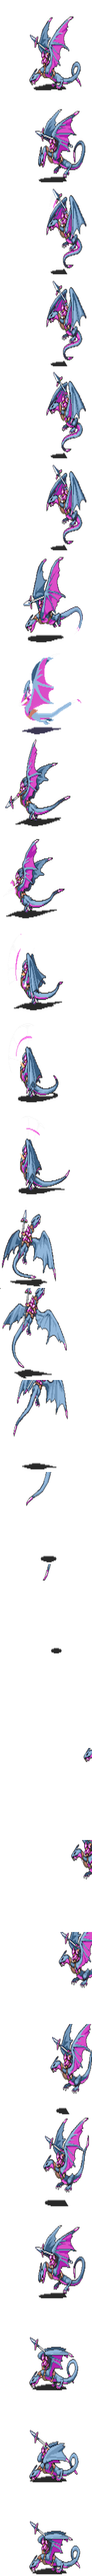
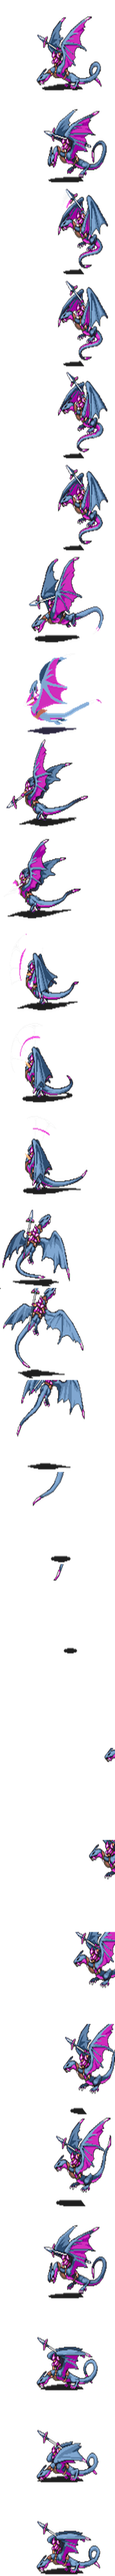
Fixing Wyvern Lord animation

diff --git a/lib/game/main.js b/lib/game/main.js
@@ -65,7 +65,7 @@ ig.module(
     // PC and NPC battle animations
     'game.entities.animations.hero_battleanim', // Main character
     'game.entities.animations.mage_battleanim', 
-    //'game.entities.animations.wyvernLord_battleanim',
+    'game.entities.animations.wyvernLord_battleanim',
     'game.entities.animations.enemy_assassin_battleanim',
     //'game.entities.animations.lord_battleanim',
 
@@ -313,7 +313,7 @@ ig.module(
             );
 
             // Create an array of entities here for random spawning of entities.
-            var party_members = [EntityFemale_mage];
+            var party_members = [EntityWyvern_lord];
 
             // Spawn party members (non-main character)
             for(var p = 1; p <= this.partyMembers; p++) {

diff --git a/lib/game/entities/animations/wyvernLord_battleanim.js b/lib/game/entities/animations/wyvernLord_battleanim.js
@@ -14,10 +14,10 @@ ig.module(
     "use strict";
 
     ig.global.EntityWyvernLord_battleanim = ig.Entity.extend({
-        animSheet: new ig.AnimationSheet('media/units/animations/wyvern_lord.png', 200, 100),
-        size: {x: 200, y: 100},
+        animSheet: new ig.AnimationSheet('media/units/animations/wyvern_lord.png', 250, 200),
+        size: {x: 250, y: 200},
         flip: false,
-        offset: {x: -100, y: 0},
+        offset: {x: -50, y: -5},
 
         init: function(x, y, settings) {
             this.parent(x, y, settings);
